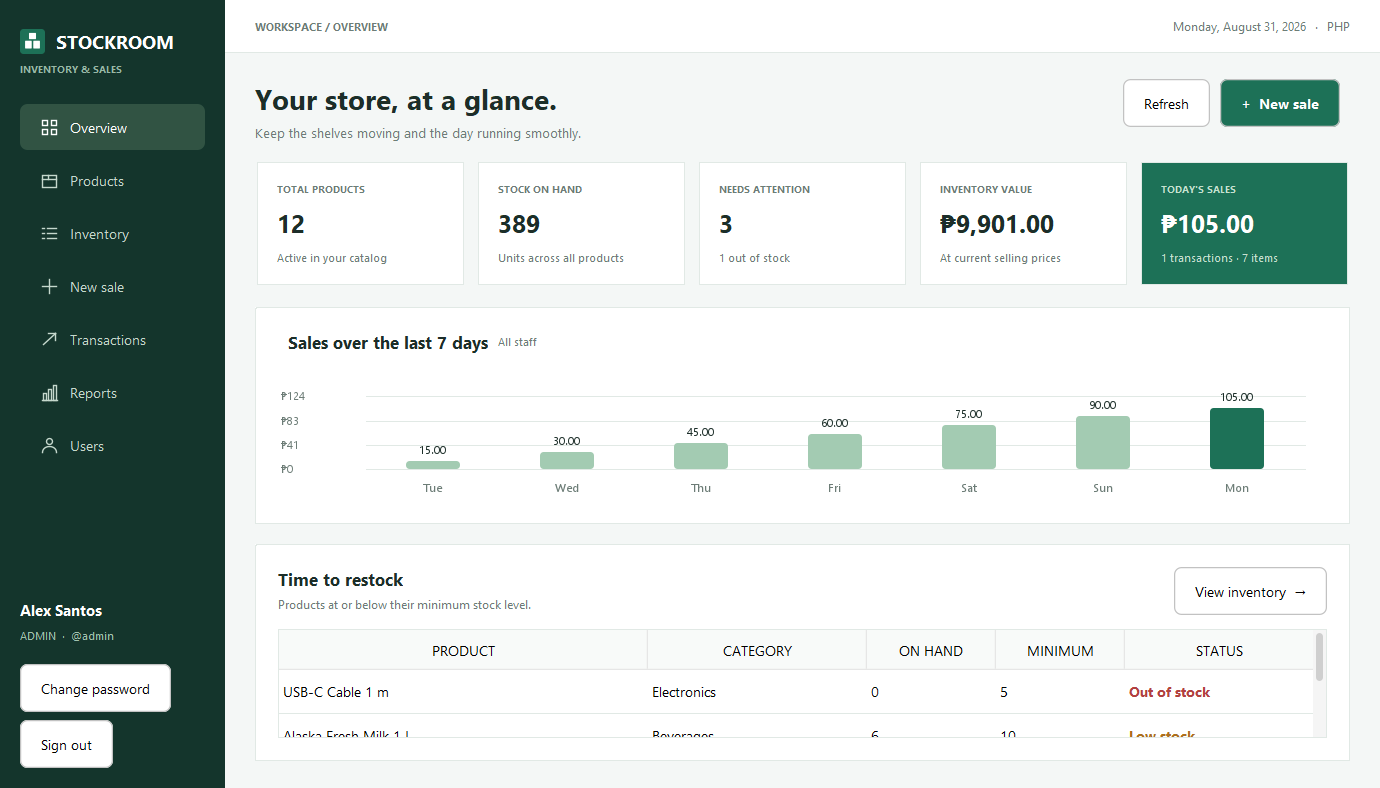
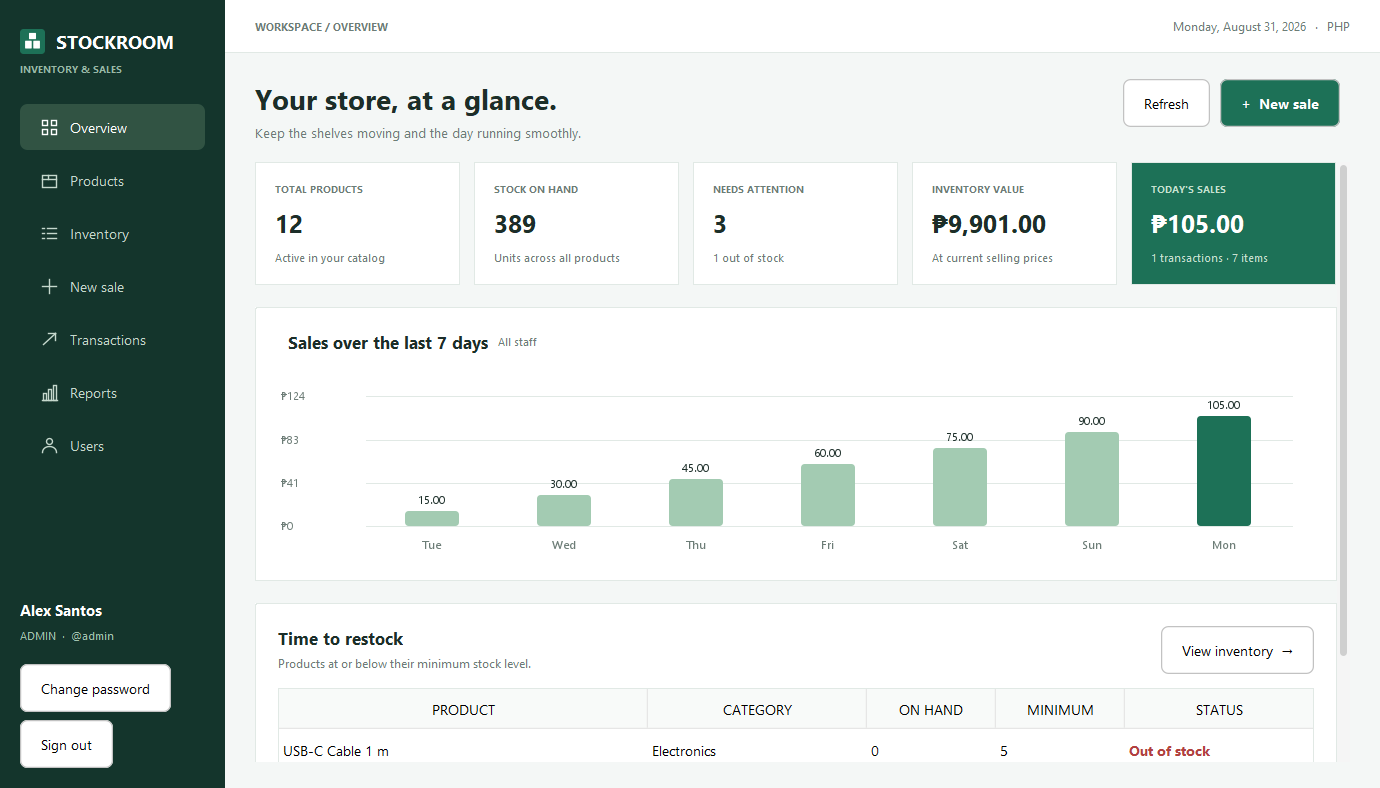
Fix clipped restock rows in compact dashboard

diff --git a/src/main/java/ph/stockroom/view/OverviewPanel.java b/src/main/java/ph/stockroom/view/OverviewPanel.java
@@ -10,11 +10,12 @@ import java.time.format.DateTimeFormatter;
 import java.util.List;
 import java.util.*;
 public final class OverviewPanel extends AppPanel {
-    private final JPanel content=new JPanel(new BorderLayout(0,22));private boolean loading;
+    private final JPanel content=new DashboardContent();private boolean loading;
     public OverviewPanel(DashboardFrame frame) {
         super(frame);content.setOpaque(false);
         add(heading("Your store, at a glance.","Keep the shelves moving and the day running smoothly.",Ui.row(Ui.button("Refresh",this::refresh),Ui.primary("+  New sale",() -> frame.navigate("New sale")))),BorderLayout.NORTH);
-        add(content);content.add(Ui.label("Loading your workspace…",15,Ui.MUTED,false));
+        JScrollPane scroll=Ui.scroll(content);scroll.setBorder(null);scroll.setHorizontalScrollBarPolicy(ScrollPaneConstants.HORIZONTAL_SCROLLBAR_NEVER);
+        scroll.getViewport().setBackground(Ui.BG);add(scroll);content.add(Ui.label("Loading your workspace…",15,Ui.MUTED,false));
     }
     @Override public void refresh() {
         if(loading)return;loading=true;
@@ -35,19 +36,41 @@ public final class OverviewPanel extends AppPanel {
         metrics.add(metric("Needs attention",Formats.number(inventory.lowStock()+inventory.outOfStock()),inventory.outOfStock()+" out of stock",false));
         metrics.add(metric("Inventory value",Formats.currency(inventory.value()),"At current selling prices",false));
         metrics.add(metric(user.can(Permission.VIEW_ALL_SALES)?"Today's sales":"Your sales today",Formats.currency(sales.revenue()),sales.transactions()+" transactions · "+sales.items()+" items",true));
-        content.add(metrics,BorderLayout.NORTH);
-        JPanel lower=new JPanel(new GridLayout(2,1,0,20));lower.setOpaque(false);
+        addCard(metrics);
         JPanel chartCard=Ui.card();chartCard.add(Ui.row(Ui.label("Sales over the last 7 days",17,Ui.INK,true),Ui.label(user.can(Permission.VIEW_ALL_SALES)?"All staff":"Your sales only",11,Ui.MUTED,false)),BorderLayout.NORTH);
         chartCard.add(new WeekChart(overview.week(),LocalDate.now(app.config.zone())));
-        lower.add(chartCard);
+        addCard(chartCard);
         JPanel alerts=Ui.card();JPanel alertHead=new JPanel(new BorderLayout());alertHead.setOpaque(false);
         alertHead.add(Ui.stack(5,Ui.label("Time to restock",17,Ui.INK,true),Ui.label("Products at or below their minimum stock level.",12,Ui.MUTED,false)));
         alertHead.add(Ui.button("View inventory  →",() -> frame.navigate("Inventory")),BorderLayout.EAST);alerts.add(alertHead,BorderLayout.NORTH);
         JTable table=Ui.table("PRODUCT","CATEGORY","ON HAND","MINIMUM","STATUS");Ui.columnWidths(table,330,180,90,90,150);Ui.statusColumn(table,4);
         Ui.rows(table,overview.alerts().stream().map(p -> new Object[]{p.name(),p.category().name(),Formats.number(p.quantity()),Formats.number(p.minimumStock()),p.status()}).toList());
-        if(overview.alerts().isEmpty())alerts.add(Ui.label("All stocked up. No low-stock products right now.",15,Ui.GREEN,false));else alerts.add(Ui.scroll(table));
-        lower.add(alerts);content.add(lower);content.revalidate();content.repaint();
+        if(overview.alerts().isEmpty())alerts.add(Ui.label("All stocked up. No low-stock products right now.",15,Ui.GREEN,false));
+        else {
+            int visibleRows=Math.min(5,Math.max(3,table.getRowCount()));
+            table.setPreferredScrollableViewportSize(new Dimension(700,visibleRows*table.getRowHeight()));
+            JScrollPane tableScroll=Ui.scroll(table);tableScroll.setColumnHeaderView(table.getTableHeader());alerts.add(tableScroll);
+        }
+        addCard(alerts);content.revalidate();content.repaint();
     }
+    /** Each card keeps its useful height; small windows scroll the page instead of crushing tables. */
+    private void addCard(JPanel card) {
+        if(content.getComponentCount()>0)content.add(Box.createVerticalStrut(22));
+        JPanel row=new JPanel(new BorderLayout()) {
+            @Override public Dimension getMinimumSize() {return new Dimension(0,getPreferredSize().height);}
+            @Override public Dimension getMaximumSize() {return new Dimension(Integer.MAX_VALUE,getPreferredSize().height);}
+        };
+        row.setOpaque(false);row.setAlignmentX(Component.LEFT_ALIGNMENT);row.add(card);content.add(row);
+    }
+    private static final class DashboardContent extends JPanel implements Scrollable {
+        DashboardContent() {setLayout(new BoxLayout(this,BoxLayout.Y_AXIS));setOpaque(false);}
+        @Override public Dimension getPreferredScrollableViewportSize() {return getPreferredSize();}
+        @Override public int getScrollableUnitIncrement(Rectangle visible,int orientation,int direction) {return 24;}
+        @Override public int getScrollableBlockIncrement(Rectangle visible,int orientation,int direction) {return Math.max(24,visible.height-24);}
+        @Override public boolean getScrollableTracksViewportWidth() {return true;}
+        @Override public boolean getScrollableTracksViewportHeight() {return false;}
+    }
+
     static final class WeekChart extends JComponent {
         private final List<ReportService.DailySales> days;private final LocalDate today;
         WeekChart(List<ReportService.DailySales> days,LocalDate today) {this.days=days;this.today=today;setPreferredSize(new Dimension(700,190));}

diff --git a/src/test/java/ph/stockroom/view/SwingSmokeTest.java b/src/test/java/ph/stockroom/view/SwingSmokeTest.java
@@ -51,6 +51,14 @@ class SwingSmokeTest {
         });
     }
     private static void layout(Container container) {container.doLayout();for(Component child:container.getComponents())if(child instanceof Container nested)layout(nested);}
+    private static JTable firstTable(Container parent) {
+        for(Component child:parent.getComponents()) {
+            if(child instanceof JTable table)return table;
+            if(child instanceof Container nested) {JTable table=firstTable(nested);if(table!=null)return table;}
+        }
+        return null;
+    }
+
     @AfterEach void cleanup() throws Exception {
         edt(() -> {
             for(Window w:Window.getWindows())w.dispose();
@@ -81,6 +89,25 @@ class SwingSmokeTest {
             if(page.equals("Products"))assertEquals(12,edt(() -> field(panels.get(page),"table",JTable.class).getRowCount()));
             if(page.equals("Transactions"))assertEquals(7,edt(() -> field(panels.get(page),"table",JTable.class).getRowCount()));
         }
+        OverviewPanel overview=(OverviewPanel)panels.get("Overview");
+        edt(() -> {frame.setSize(1160,730);frame.navigate("Overview");return null;});
+        waitReady(overview);capture(frame,"13-overview-compact");
+        edt(() -> {
+            JTable restock=firstTable(overview);
+            assertNotNull(restock,"The seeded dashboard must have a restock table.");
+            JViewport rows=(JViewport)restock.getParent();
+            assertTrue(rows.getExtentSize().height>=restock.getRowHeight()*3,
+                "A compact dashboard must show three complete restock rows, rather than only a table header. Available: "+rows.getExtentSize().height+"; required: "+restock.getRowHeight()*3);
+            JPanel content=field(overview,"content",JPanel.class);
+            Rectangle lastRow=SwingUtilities.convertRectangle(restock,restock.getCellRect(2,0,true),content);
+            content.scrollRectToVisible(lastRow);layout(frame.getContentPane());
+            JViewport page=(JViewport)content.getParent();
+            assertTrue(page.getViewRect().contains(lastRow),"The third restock row must be reachable by scrolling. Page: "+page.getViewRect()+"; row: "+lastRow);
+            return null;
+        });
+        capture(frame,"14-restock-compact-scrolled");
+        edt(() -> {frame.setSize(1380,870);return null;});
+
         AppPanel sales=panels.get("New sale");edt(() -> {frame.navigate("New sale");return null;});waitReady(sales);
         edt(() -> {
             JTextField search=field(sales,"search",JTextField.class);search.setText("Coca-Cola");

diff --git a/docs/VALIDATION.md b/docs/VALIDATION.md
@@ -41,3 +41,11 @@ The Windows setup, start, stop, test, backup and package scripts are included. T
 Offscreen rendering checks validate Swing controls and layout but are not a substitute for every manual interaction on all operating systems and display scaling settings. Printer output needs a configured physical or PDF printer and was not physically printed. The GitHub workflow is supplied separately; its remote status should be checked on the repository.
 
 The application is an educational small-business desktop system, not an audited accounting package or accredited tax-invoicing system.
+
+## Dashboard restock clipping fix
+
+The small-window regression check first failed against the original layout, reproducing the reported header-only table. The corrected dashboard keeps each card at its natural height and scrolls vertically instead of compressing the restock list. Table header height is included when reserving space for rows.
+
+The Swing test now verifies three complete restock rows and scroll access to the third row at 1160 × 730. The updated test and executable build passed, and the scrolled compact preview was visually inspected. See screenshots/restock-compact.png.
+
+An optional stockroom.build.directory Maven property and BuildDirectory test-script parameter allow updates to be verified separately from a running application. The release script accepts a verified JAR path for the same reason.
